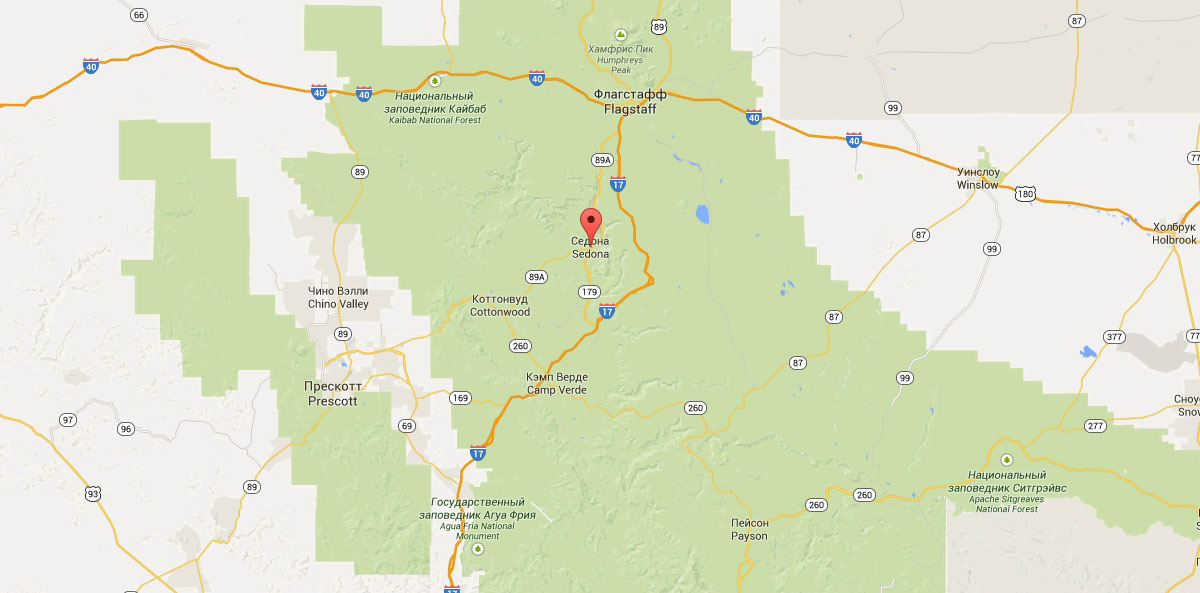
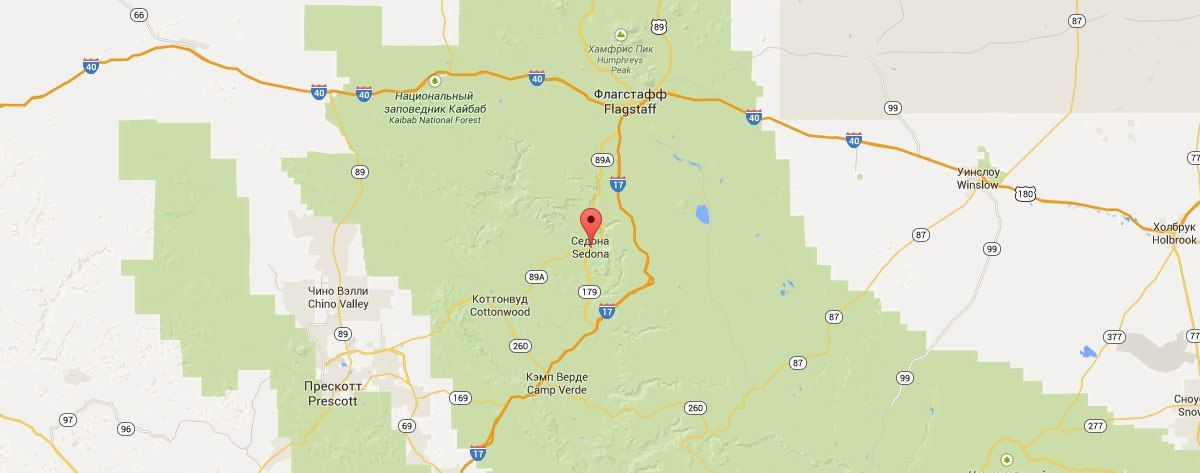
чики

diff --git a/index.html b/index.html
@@ -79,10 +79,10 @@
     </div>
     <div class="text-block block2">
       <p class="block-2-title">Заинтересовались?</p>
-      <p class="block-2-info">Укажите предполагаемые даты поездки, и мы покажем вам лучшие предложения гостиниц в седоне</p>
+      <p class="block-2-info">Укажите предполагаемые даты поездки,<br> и мы покажем вам лучшие предложения гостиниц в седоне</p>
     </div>
     <div class="feedback-block">
-      <a class="feedback-btn" href="#">Поиск гостиницы в седоне</a>
+      <button type="button" class="feedback-btn btn" href="#">Поиск гостиницы в седоне</button>
       <form class="feedback">
       	<fieldset class="feedback-block-date1">
       	  <label for="date-in">Дата заезда</label>
@@ -111,7 +111,7 @@
       </form>
     </div>
     <div class="map-block">
-      <img src="img/map.jpg" width="1200" height="593" alt="map">
+      <img src="img/map.jpg" width="1200" height="473" alt="map">
     </div>   	
   </main>
   <footer class="main-footer">

diff --git a/css/style.css b/css/style.css
@@ -169,10 +169,6 @@ body {
   margin-top: 1px;
 }
 
-.block2 {
-  display: flex;
-}
-
 .block-3 {
   background-color: #eeeeee;
 }
@@ -214,9 +210,7 @@ body {
 }
 
 .info-block-inside {
-   
-
-  background-color: #81b3d2;
+   background-color: #81b3d2;
 }
 
 .info-block-inside p {
@@ -341,6 +335,8 @@ body {
 
 .block-2-title {
   width: 300px;
+  padding-top: 56px;
+  padding-left: 450px;
 
   font-size: 30px;
   font-weight: 700;
@@ -348,12 +344,13 @@ body {
 }
 
 .block-2-info {
-  width: 430px;
+  padding-top: 29px;
+  padding-bottom: 44px;
 }
 
 .feedback-btn {
   display: block;
-  margin-left: 312px;
+  margin-left: 316px;
 
   white-space: nowrap;
 }
@@ -365,6 +362,26 @@ body {
 .links {
   display: flex;
 }
+
+.btn {
+  font-family: "PT Sans", "Tahoma", sans-serif;  
+  font-size: 21px;
+  font-weight: 700;
+  line-height: 26px;
+  color: #ffffff;
+  text-transform: uppercase;  
+  text-decoration: none;
+
+  background-color: #766357;
+  border: none;
+  outline: none;
+  cursor: pointer;
+}
+
+.feedback-btn {
+  padding: 30px 140px;
+}
+
 
 /* setka catalog*/
 
